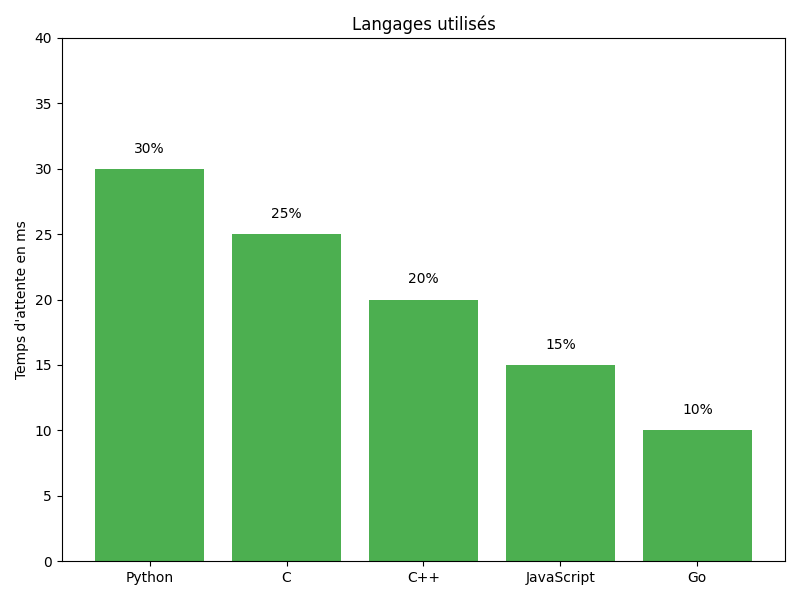
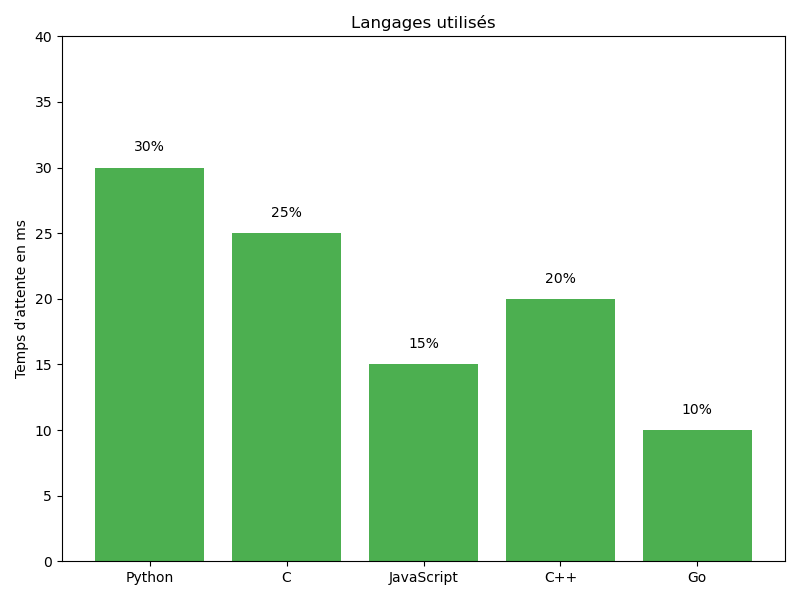
Adding some modif

diff --git a/updater.py b/updater.py
@@ -12,7 +12,7 @@ languages = {
 }
 
 # 2. Tri (optionnel) des langages par % décroissant
-languages = dict(sorted(languages.items(), key=lambda item: item[1], reverse=True))
+#languages = dict(sorted(languages.items(), key=lambda item: item[1], reverse=True))
 
 # 3. Données pour le graphique
 langs = list(languages.keys())
